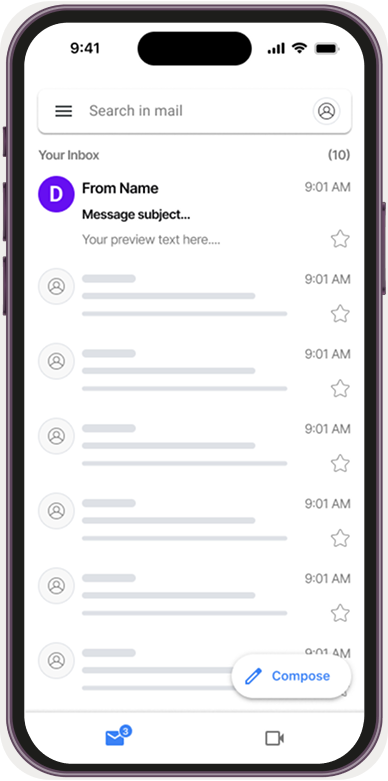
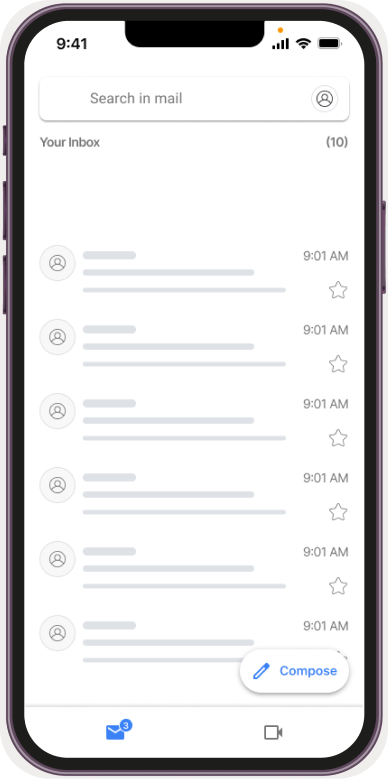
feat(FeedBuilder): enhance FeedBuilder component with dynamic props for email preview

diff --git a/src/components/FeedBuilder/index.tsx b/src/components/FeedBuilder/index.tsx
@@ -1,37 +1,51 @@
 import { __ } from '@wordpress/i18n';
-import WandIcon from '../icons/wand';
-import { BuilderArrowIcon, WandOutlinedIcon } from '../icons';
-import { Button } from '../ui/button';
 //@ts-ignore
 import device from '../../../assets/images/email-device.png';
+import { Star } from 'lucide-react';
 
 const FeedBuilder: React.FC<{
-	setVisibile: (visible: boolean) => void;
-}> = ({ setVisibile }) => {
+	fromName?: string;
+	subject?: string;
+	previewText?: string;
+}> = ({ fromName, subject, previewText }) => {
+	const displayFromName =
+		fromName?.trim() || __('From Name', 'quillcrm');
+	const displaySubject =
+		subject?.trim() || __('Message Subject...', 'quillcrm');
+	const displayPreview =
+		previewText?.trim() || __('Your preview text here...', 'quillcrm');
+	const avatarLetter = displayFromName.charAt(0).toUpperCase();
+
 	return (
-		<div className="flex flex-col items-center justify-center border border-gray-200 rounded-2xl bg-[#F8F8F8] w-1/3">
-			<img src={device} alt="device" className="w-[300px]" />
-			{/* <div className="bg-sidebar-accent w-fit rounded-lg p-2 mb-4">
-				<WandIcon />
+		<div
+			className="flex flex-col items-center justify-center border border-gray-200 rounded-2xl bg-[#F8F8F8] w-1/3 py-10"
+		>
+			<div className="relative">
+				<img src={device} alt={__('Mobile preview', 'quillcrm')} className="w-[272px] select-none pointer-events-none" />
+
+				<div className="absolute top-[114px] left-1/2 -translate-x-1/2 w-[218px] bg-transparent flex gap-3 items-start">
+					<div className="flex h-8 w-8 items-center justify-center rounded-full bg-[#2563EB] text-white font-semibold">
+						{avatarLetter}
+					</div>
+
+					<div className="flex-1 space-y-1">
+						<div className="flex flex-col">
+							<div className="flex items-center justify-between">
+								<span className="font-medium text-[#09090B] text-xs w-[65px] truncate">{displayFromName}</span>
+								<span className="text-[10px] text-[#9c9595]">{__('9:01 AM', 'quillcrm')}</span>
+							</div>
+							<span className="text-[10px] w-[170px] text-[#09090B] font-medium truncate">
+								{displaySubject}
+							</span>
+						</div>
+
+						<p className="text-[10px] text-[#9c9595] line-clamp-1 flex items-center justify-between">
+							<span className="w-[150px] truncate">{displayPreview}</span>
+							<Star className="w-4 h-4" />
+						</p>
+					</div>
+				</div>
 			</div>
-			<div className="text-black text-center">
-				<p className="text-lg">
-					{__(
-						"You don't have any feeds configured. Let's go",
-						'quillcrm'
-					)}
-				</p>
-				<p className="text-lg">
-					{__('Create one From here!', 'quillcrm')}
-				</p>
-			</div>
-			<div className="py-8">
-				<BuilderArrowIcon />
-			</div>
-			<Button variant="gradient" onClick={() => setVisibile(true)}>
-				<WandOutlinedIcon />
-				{__('Create with Email Builder', 'quillcrm')}
-			</Button> */}
 		</div>
 	);
 };

diff --git a/src/client/pages/campaign/steps/templates/index.tsx b/src/client/pages/campaign/steps/templates/index.tsx
@@ -691,7 +691,11 @@ const Templates: React.FC = () => {
 						</div>
 					</PanelSettings>
 
-					<FeedBuilder setVisibile={handleOpenEmailBuilder} />
+					<FeedBuilder
+						fromName={template.settings?.from_name}
+						subject={template.subject}
+						previewText={template.preview_text}
+					/>
 				</div>
 			</PanelLayout>
 			<EmailBuilderSelection
